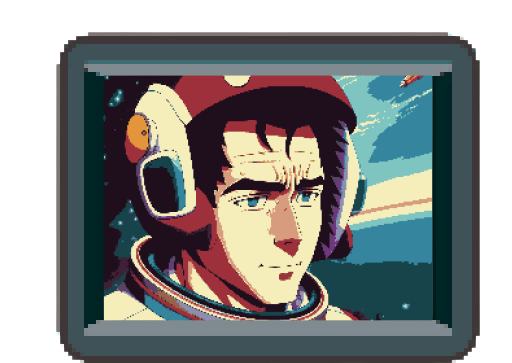
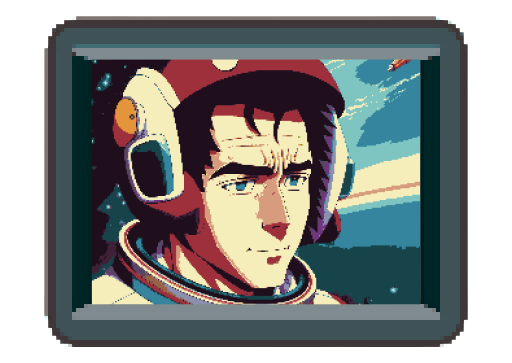
main screen
-finished main screen

diff --git a/IDLIII_location_based_game/cosmic-crisis/pages/main/style.css b/IDLIII_location_based_game/cosmic-crisis/pages/main/style.css
@@ -1,15 +1,18 @@
 body {
     height: 100vh;
     width: 100%;
+    margin: 0;
 }
+
 /*radar*/
 .spinner {
-    width: 250px;
-    height: 250px;
+    aspect-ratio : 1 / 1;
+    width: 100%; 
     position: relative;
     border: 1px solid #ffffff;
     border-radius: 50%;
 }
+
 .spinner::before {
     content: "";
     display: inline-block;
@@ -19,6 +22,7 @@ body {
     background-image: conic-gradient(rgb(0, 26, 37) 70%, #009dc4);
     animation: spin 3s infinite linear;
 }
+
 .dot {
     width: 10px;
     height: 10px;
@@ -46,6 +50,7 @@ body {
     animation: bip 3s infinite linear;
     animation-delay: 2.2s;
 }
+
 .dot3 {
     width: 10px;
     height: 10px;
@@ -59,6 +64,7 @@ body {
     animation: bip 3s infinite linear;
     animation-delay: 2.2s;
 }
+
 .dot4 {
     width: 10px;
     height: 10px;
@@ -72,6 +78,7 @@ body {
     animation: bip 3s infinite linear;
     animation-delay: 2.2s;
 }
+
 .dot5 {
     width: 10px;
     height: 10px;
@@ -85,6 +92,7 @@ body {
     animation: bip 3s infinite linear;
     animation-delay: 2.2s;
 }
+
 .dot6 {
     width: 10px;
     height: 10px;
@@ -98,6 +106,7 @@ body {
     animation: bip 3s infinite linear;
     animation-delay: 2.2s;
 }
+
 .arc {
     display: inline-block;
     border: 1px solid rgba(0, 154, 196, 0.4);
@@ -117,41 +126,122 @@ body {
     width: 75%;
     height: 75%;
 }
+
 @keyframes spin {
     100% {
         transform: rotate(360deg);
-   }
+    }
 }
+
 @keyframes bip {
     0% {
         opacity: 1;
-   }
-    50%, 100% {
+    }
+
+    50%,
+    100% {
         opacity: 0;
-   }
+    }
 }
 
 /*main screen css*/
-/* h1{
+
+.captain-container {
+    display: grid;
+    grid-template-columns: 1fr 2fr 1fr;
+    width: 100%;
+    justify-content: center;
+}
+
+.captain-container>div {
+    display: grid;
+    justify-items: center;
+    grid-auto-rows: minmax(min-content, max-content);
+    overflow: hidden;
+}
+
+.captain {
+    width: 125%;
+}
+
+.stress_meter {
+    width: 200%;
+    margin-top: 2.5rem;
+    margin-right: -3rem
+}
+
+.stress_meter_circles {
+    margin-top: 3em;
+    margin-left: -3rem;
+    width: 280%;
+}
+
+.name {
     font-family: 'audiowide';
+    font-size: 1.2rem;
+    display: flex;
+    justify-self: left;
+    margin-left: 1rem;
+    margin-bottom: -0.5rem;
 }
 
-.bg{
-    position: absolute;
-    top: 0;
-    left: 0;
-    width: 300%;
-    height: 100vh;
+.radar-container {
+    display: grid;
+    width: 65%;
+    margin-left: 17.5%;
 }
 
-.captain{
-    width: 25%;
+.distance-text{
+    text-align: left;
+    padding-left: 0 !important;
+    margin-bottom: 0;
 }
 
-.stress_meter{
-    width: 25%;
+.location-text {
+    margin-top: 0;
 }
- */
 
+@media only screen and (min-width: 500px) {
+    .name {
+        font-size: 1.6rem;
+    }
 
+    .stress_meter_circles {
+        margin-top: 3.5em;
+        margin-left: -3rem;
+    }
 
+    .stress_meter {
+        margin-top: 3rem;
+        margin-right: -3rem
+    }
+
+}
+
+@media only screen and (min-width: 650px) {
+    .name {
+        font-size: 2rem;
+    }
+
+    .stress_meter_circles {
+        margin-top: 4em;
+        margin-left: -3rem;
+    }
+
+    .stress_meter {
+        margin-top: 3.5rem;
+        margin-right: -3rem
+    }
+}
+
+@media only screen and (min-width: 900px) {
+    .stress_meter_circles {
+        margin-top: 4.5em;
+        margin-left: -6.5rem;
+    }
+
+    .stress_meter {
+        margin-top: 4rem;
+        margin-right: -6.5rem
+    }
+}

diff --git a/IDLIII_location_based_game/cosmic-crisis/pages/main/index.html b/IDLIII_location_based_game/cosmic-crisis/pages/main/index.html
@@ -9,29 +9,35 @@
 
     <link href="style.css" type="text/css" rel="stylesheet">
     <link href="../../styles/style.css" type="text/css" rel="stylesheet">
-
+    <script defer src="../../scripts/get-distance.js"></script>
     <script defer src="script.js"></script>
 
 </head>
 
 <body>
-<!--     <div class="captain-container">
-        <h1>B0B</h1>
-        <img class="captain" src="../../images/captain_main.png" alt="captain-main">
-        <img class="stress_meter" src="../../images/stress_meter.gif" alt="gif-stress">
-    </div> -->
-    <div id="radar" class="spinner">
-        <span class="dot"></span>
-        <span class="dot2"></span>
-        <span class="dot3"></span>
-        <span class="dot4"></span>
-        <span class="dot5"></span>
-        <span class="dot6"></span>
-        <span class="arc arc-medium"></span>
-        <span  class="arc arc-large"></span>
-        <span class="arc"></span>
+    <div class="captain-container">
+        <div><img class="stress_meter" src="../../images/stress_meter.gif" alt="gif-stress"></div>
+        <div>
+            <h1 class="name">B0B</h1>
+            <img class="captain" src="../../images/captain_main.png" alt="captain-main">
+        </div>
+        <div><img class="stress_meter_circles" src="../../images/stress_circles.gif" alt="gif-stress-circles"></div>
     </div>
-    <!-- <img class="bg" src="../../images/background2.png"> -->
+    <div class="radar-container">
+        <div id="radar" class="spinner">
+            <span class="dot"></span>
+            <span class="dot2"></span>
+            <span class="dot3"></span>
+            <span class="dot4"></span>
+            <span class="dot5"></span>
+            <span class="dot6"></span>
+            <span class="arc arc-medium"></span>
+            <span class="arc arc-large"></span>
+        </div>
+        <h1 class="name-text distance-text"></h1>
+        <p class="location-text"></p>
+    </div>
+
 </body>
 
 </html>

diff --git a/IDLIII_location_based_game/cosmic-crisis/pages/main/script.js b/IDLIII_location_based_game/cosmic-crisis/pages/main/script.js
@@ -1,3 +1,15 @@
+//navigation
+const coordinatesMap = {
+    "zna-cadix": ["51.2307055354974", "4.414559615920932"],
+}
+
+const stopHtmlMap = {
+    "zna-cadix": "../stop1-zna/stop1-1/index.html"
+}
+
+const stops = ["zna-cadix", "parkbrug", "mas", "whisperer", "havenhuis"];
+if(localStorage.getItem("stop") === null) localStorage.setItem("stop", 0);
+
 function drawCoordinates(baseLatitude, baseLongitude, latitude, longitude, color, className) {
     const precisionMultiplier = 1600;
     const offsetMultiplier = 10;
@@ -53,6 +65,14 @@ function success(position) {
     drawCoordinates(latitude, longitude, "51.22824318132135", "4.406100184553811", "brown", "dot5");
     //havenhuis
     drawCoordinates(latitude, longitude, "51.23145696081982", "4.407370113413155", "blue", "dot6");
+
+    const stopCoordinates = coordinatesMap[stops[localStorage.getItem("stop")]];
+    const distance = getDistance(latitude, longitude, stopCoordinates[0], stopCoordinates[1]).distance;
+    document.getElementsByClassName("distance-text")[0].innerText = distance.toString() + "m";
+    document.getElementsByClassName("location-text")[0].innerText = "Navigeer naar " + stops[localStorage.getItem("stop")];
+    if(distance <= 250) {
+        location.assign(stopHtmlMap[stops[localStorage.getItem("stop")]]);
+    } 
 }
 document.querySelector(".dot").style.display = "none";
 document.querySelector(".dot2").style.display = "none";
@@ -61,3 +81,8 @@ document.querySelector(".dot4").style.display = "none";
 document.querySelector(".dot5").style.display = "none";
 document.querySelector(".dot6").style.display = "none";
 navigator.geolocation.watchPosition(success, error, options);
+
+
+
+//const previousStop = localStorage.getItem("stop");
+//localStorage.setItem("stop", previousStop+1);
